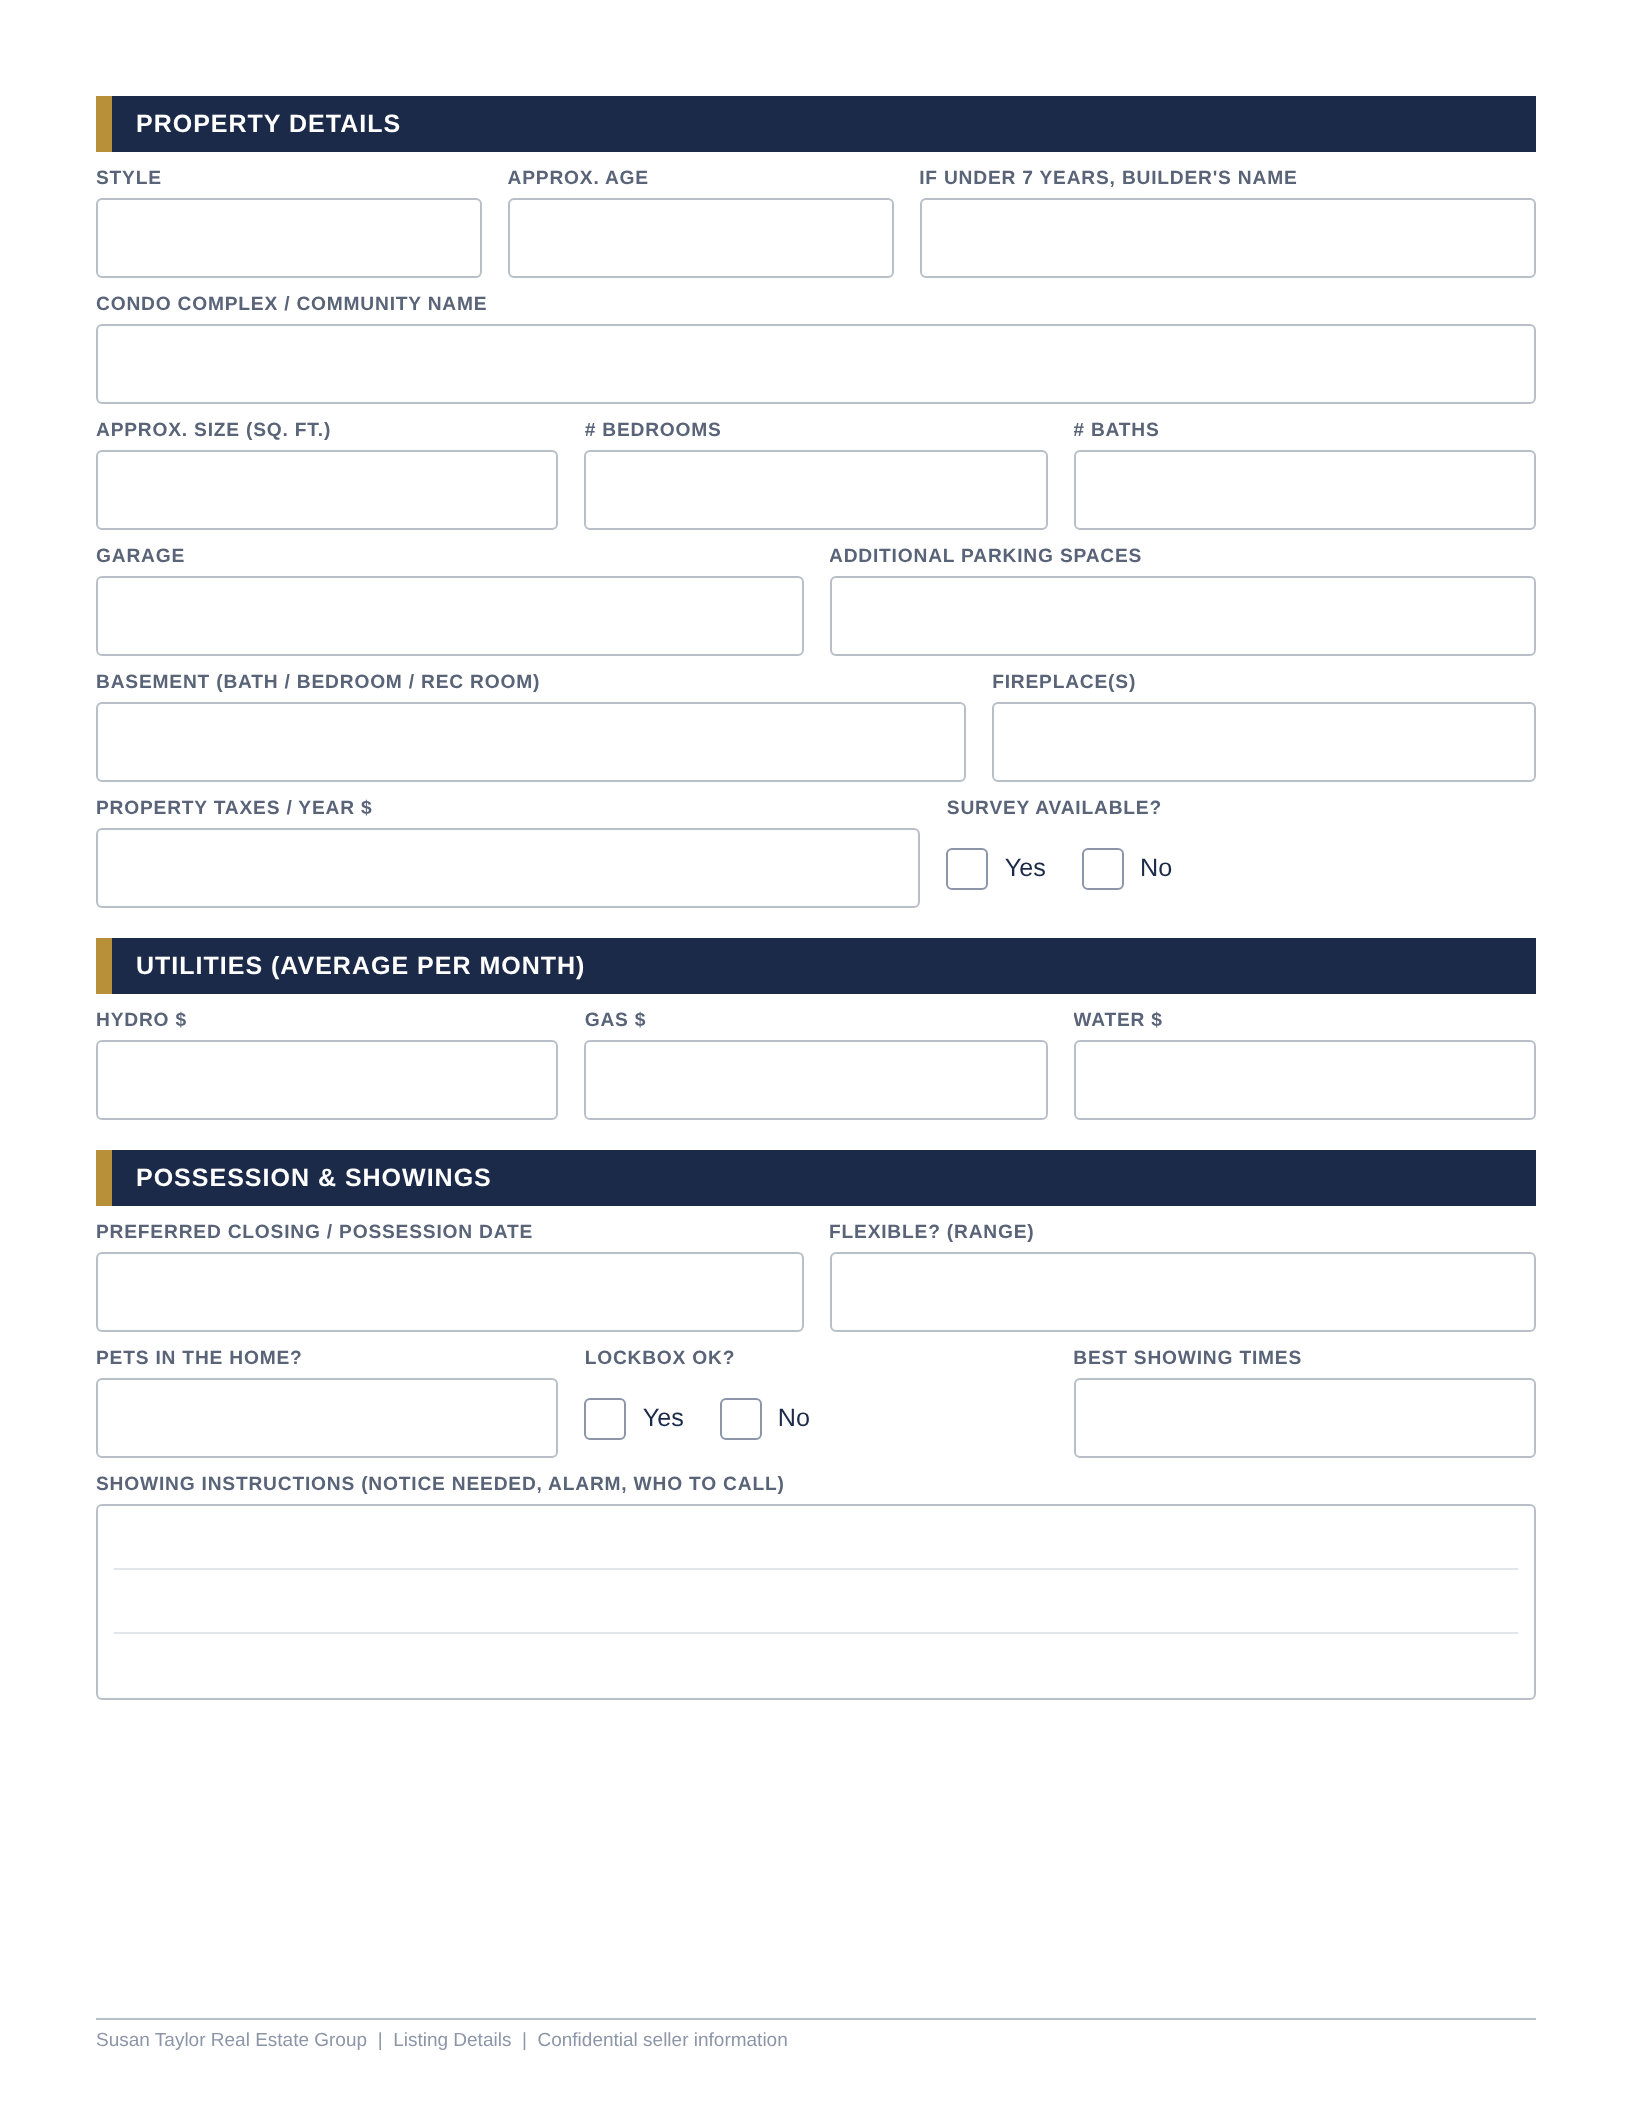
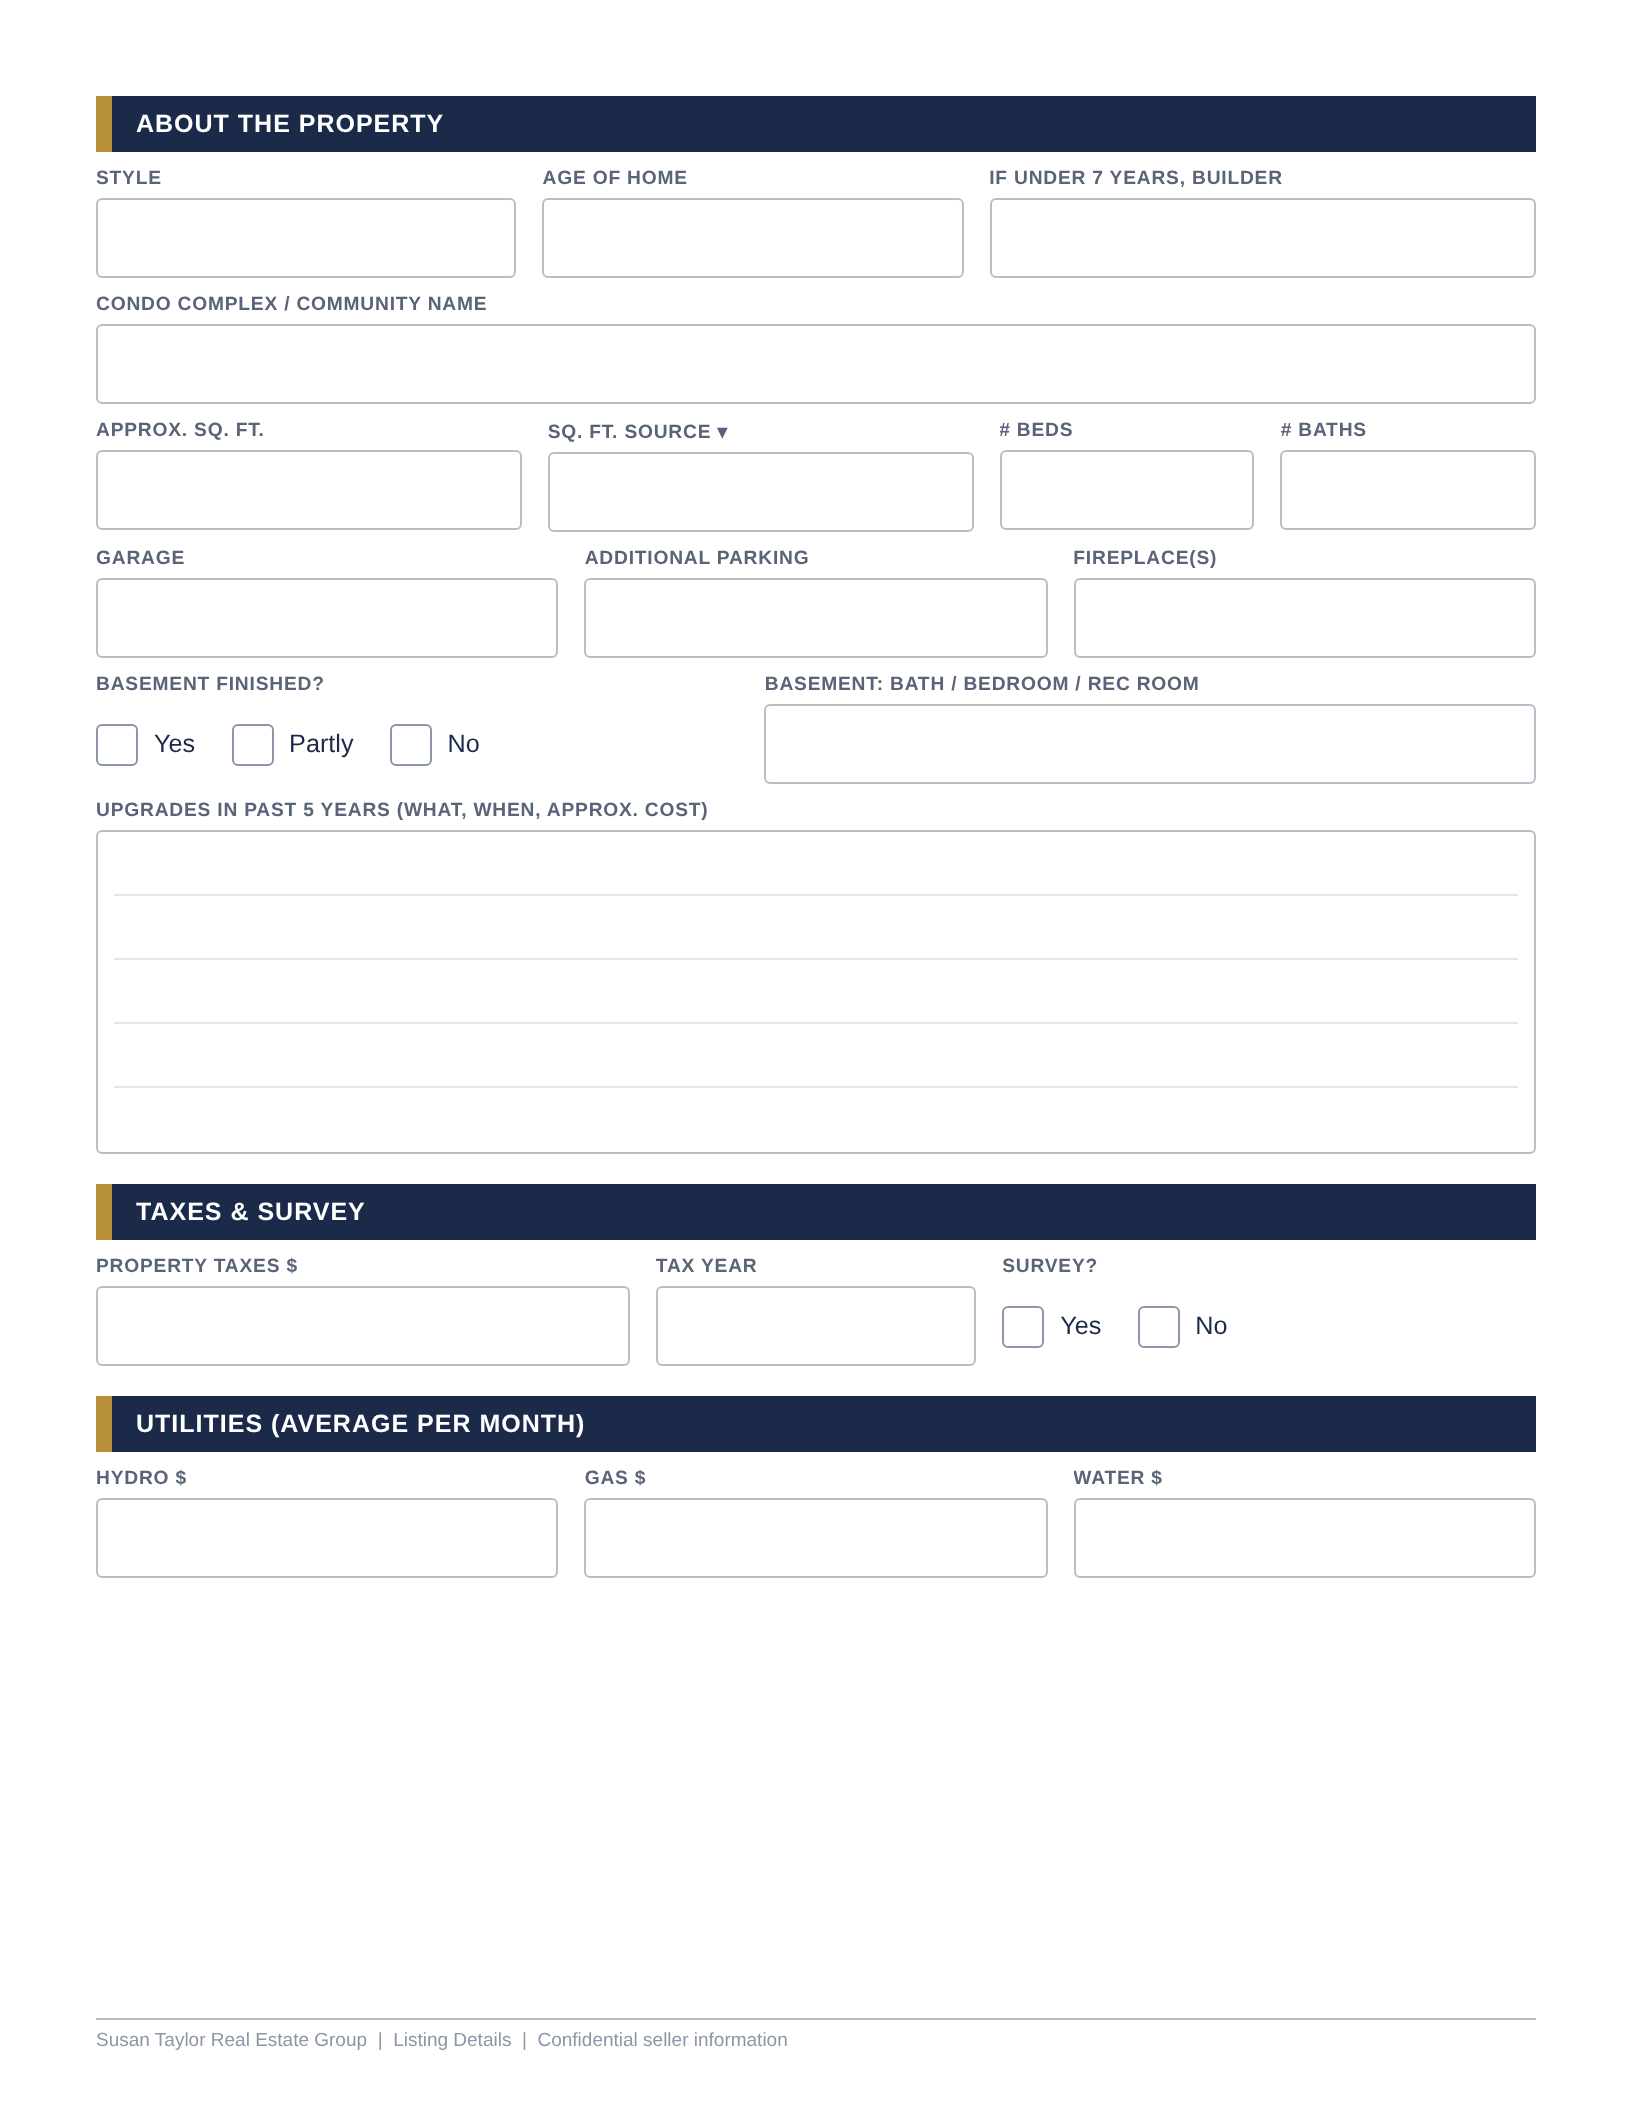
Bring back Listing Details as a team house reference, with showing prefs
Listing Details keeps seller names and title only (no contact, mailing or
financing). Every property field shared with the Marketing Consultation
flows through, typed or handwritten, along with rooms and photos. Adds
Showing Preferences: best days and times, notice, lockbox, seller home,
pets, access, and notes for the team. Rooms follow Sue's walking order.
Fixes taps on closely spaced checkboxes hitting a neighbour.

Claude-Session: https://claude.ai/code/session_01CeRbRrmCaVeMYwMfHpdKm6

diff --git a/app.js b/app.js
@@ -1,4 +1,4 @@
-/* STG Field Notes: Marketing Consultation (Listing Details retired Nov 2026; old ones still open).
+/* STG Field Notes: Marketing Consultation -> Listing Details (realtor house reference).
    Apple Pencil writes, finger taps type/dictate/tick, finger drags scroll. Saved per property.
    The consultation grows room by room. Works offline. Exports PDF. */
 (() => {
@@ -315,7 +315,9 @@
     for (const f of fieldsOn(key)) {
       const pad = f.kind === "check" ? 9 : 5, extraR = f.kind === "check" ? 46 : 0;
       if (x >= f.x - pad && x <= f.x + f.w + pad + extraR && y >= f.y - pad && y <= f.y + f.h + pad) {
-        const a = f.w * f.h; if (!best || a < best.a) best = { f, a };
+        // a direct hit on the box beats a hit on a neighbour's label area; then the smaller target wins
+        const direct = x <= f.x + f.w + pad ? 0 : 1, a = f.w * f.h;
+        if (!best || direct < best.direct || (direct === best.direct && a < best.a)) best = { f, a, direct };
       }
     }
     return best && best.f;
@@ -738,22 +740,20 @@
       const f = FORMS[d.type] || FORMS.lead;
       const row = el("div", "item");
             row.innerHTML = `<button class="open"><span class="tag ${d.type}">${f.tag}</span><b>${esc(d.name || "Untitled")}</b>
-        <small>${f.title}${d.type === "details" ? " (retired form)" : ""} · updated ${fmtDate(d.updated)}</small></button>`;
+        <small>${f.title} · updated ${fmtDate(d.updated)}${d.leadId && docs.some(x => x.id === d.leadId) ? " · from Marketing Consultation" : ""}</small></button>`;
       row.querySelector(".open").onclick = () => openDoc(d);
 
+      if (d.type === "lead") { const b = el("button", "act go", "Start Details"); b.onclick = () => startDetailsFromLead(d); row.append(b); }
       const del = el("button", "act", "Delete"); del.onclick = () => confirmDelete(d); row.append(del);
       list.append(row);
     }
   }
 
   /* Lead -> Details: copy shared answers, typed text and the actual Pencil strokes, plus rooms */
-  const LEAD_TO_DETAILS = {
-    "seller-name-s": "seller-name-s", "property-address": "property-address", "best-phone": "mobile", "email": "email-1",
-    "mortgage-yes": "current-financing-on-the-property-yes", "mortgage-no": "current-financing-on-the-property-no",
-    "style": "style", "approx-sq-ft": "approx-size-sq-ft", "beds": "bedrooms", "baths": "baths", "parking-garage": "garage",
-    "age-of-home": "approx-age", "approx-mortgage-remaining": "approx-balance",
-  };
-  const BASEMENT = { "basement-finished-yes": "Finished", "basement-finished-partly": "Partly finished", "basement-finished-no": "Unfinished" };
+  // Consultation -> Details: every field the two forms share (same id) flows through, as text and as
+  // Pencil strokes. Personal details (phones, emails, ownership/mailing, financing, motivation, notes) are
+  // not on the Details form, so they never copy. "notes" is excluded explicitly: same id, different purpose.
+  const NO_COPY = new Set(["notes"]);
   function strokeCentre(st) {
     let x0 = Infinity, y0 = Infinity, x1 = -Infinity, y1 = -Infinity;
     for (const [x, y] of st.pts) { x0 = Math.min(x0, x); y0 = Math.min(y0, y); x1 = Math.max(x1, x); y1 = Math.max(y1, y); }
@@ -772,15 +772,15 @@
     const fld = (lay, id) => (lay.fields || []).find(f => f.id === id);
     const pushInk = (key, list) => { (ink[key] = ink[key] || []).push(...list); };
     let n = 0;
-    for (const [from, to] of Object.entries(LEAD_TO_DETAILS)) {
-      const lf = fld(L, from), df = fld(D, to); if (!lf || !df) continue;
+    for (const lf of L.fields || []) {
+      if (NO_COPY.has(lf.id)) continue;
+      const df = fld(D, lf.id); if (!df || df.kind !== lf.kind) continue;
       let got = false;
-      if (lText[from]) { text[to] = lText[from]; got = true; }
+      if (lText[lf.id]) { text[df.id] = lText[lf.id]; got = true; }
       const strokes = (lInk[lf.pageKey] || []).filter(st => st.pts && st.pts.length && inRect(strokeCentre(st), lf, 4));
       if (strokes.length) { pushInk(df.pageKey, moveStrokes(strokes, lf, df)); got = true; }
       if (got) n++;
     }
-    for (const [from, label] of Object.entries(BASEMENT)) if (lText[from]) { text["basement-bath-bedroom-rec-room"] = label; n++; break; }
     // rooms: matching names go to that Details row; others go to Additional notes + the "Additional" photo box
     const extras = [];
     for (let r = 1; r <= lRooms; r++) {
@@ -802,11 +802,6 @@
       }
       n++;
     }
-    if (lText["sq-ft-source"]) {
-      text["approx-size-sq-ft"] = text["approx-size-sq-ft"] ? `${text["approx-size-sq-ft"]} (${lText["sq-ft-source"]})` : `Source: ${lText["sq-ft-source"]}`; n++;
-    }
-    const own = lText["ownership-details-names-on-title-occupancy-financing"];
-    if (own) { extras.unshift(`Ownership (from Lead): ${own}`); }
     if (extras.length) text["notes"] = extras.join("\n");
     if (!text["property-address"]) { const lead = docs.find(d => d.id === leadId); if (lead && lead.name && lead.name !== "Untitled") text["property-address"] = lead.name; }
     await DB.set(`d:${detailsId}:text`, text); await DB.set(`d:${detailsId}:ink`, ink);
@@ -821,8 +816,8 @@
     if (type === "details" && leadId) { try { copied = await prefillFromLead(meta.id, leadId); } catch (e) { console.warn("prefill failed", e); } }
     else if (name) await DB.set(`d:${meta.id}:text`, { "property-address": name });   // the form's name is the address
     docs.push(meta); await saveDocs(); await openDoc(meta);
-    if (leadId) toast(copied ? `Copied ${copied} item${copied > 1 ? "s" : ""} from the Listing Lead, rooms and photos included.`
-                             : "Linked to the Listing Lead. Its photos are in each photo box.");
+    if (leadId) toast(copied ? `Copied ${copied} item${copied > 1 ? "s" : ""} from the Marketing Consultation, rooms and photos included.`
+                             : "Linked to the Marketing Consultation. Its photos are in each photo box.");
     else if (type === "lead") setTimeout(() => toast("Tip: in Room by Room, tap the room bar to pick the room. Tap the photo box to add as many photos as you like."), 4500);
   }
 
@@ -840,9 +835,9 @@
     const leads = docs.filter(d => d.type === "lead").sort((a, b) => b.updated - a.updated);
     nameDialog("New Listing Details", "", "Start", name => createDoc("details", name || (chosen && chosen.name), chosen && chosen.id), body => {
       if (!leads.length) return;
-      body.append(el("div", "lbl2", "Link to a Listing Lead (copies its answers, rooms and photos)"));
+      body.append(el("div", "lbl2", "Start from a Marketing Consultation (copies property details, rooms and photos)"));
       leads.slice(0, 6).forEach(l => {
-        const b = el("button", "choice", `${esc(l.name)}<small>Listing Lead · ${fmtDate(l.updated)}</small>`);
+        const b = el("button", "choice", `${esc(l.name)}<small>Marketing Consultation · ${fmtDate(l.updated)}</small>`);
         b.onclick = () => {
           const on = chosen !== l; chosen = on ? l : null;
           body.querySelectorAll(".choice").forEach(x => x.classList.remove("sel")); if (on) b.classList.add("sel");

diff --git a/sw.js b/sw.js
@@ -1,5 +1,5 @@
 // Offline cache so the app opens at a listing with no signal. Bump VERSION on every deploy.
-const VERSION = "stg-field-notes-v9";
+const VERSION = "stg-field-notes-v10";
 const ASSETS = ["./", "app.css","app.js","details-layout.json","details-page-1.png","details-page-2.png","details-page-3.png","details-page-4.png","details-page-5.png","details-page-6.png","icon-180.png","icon-192.png","icon-512.png","index.html","jspdf.umd.min.js","lead-layout.json","lead-page-1.png","lead-page-2.png","lead-page-3.png","lead-page-4.png","lead-room-card.png","lead-rooms-page.png","manifest.webmanifest"];
 self.addEventListener("install", e => { e.waitUntil(caches.open(VERSION).then(c => c.addAll(ASSETS)).then(() => self.skipWaiting())); });
 self.addEventListener("activate", e => {

diff --git a/index.html b/index.html
@@ -36,9 +36,11 @@
 </header>
 
 <main id="home" class="home-only">
-  <div class="newrow one">
+  <div class="newrow">
     <button id="newLead" class="newcard">
       <span class="tag lead">FIRST VISIT</span><b>New Marketing Consultation</b><small>Sellers, the property, room by room, inclusions and photos</small></button>
+    <button id="newDetails" class="newcard">
+      <span class="tag details">LISTING SIGNED</span><b>New Listing Details</b><small>House reference for the team: property, showings, rooms</small></button>
   </div>
   <h2>Saved forms</h2>
   <div id="list"></div>
